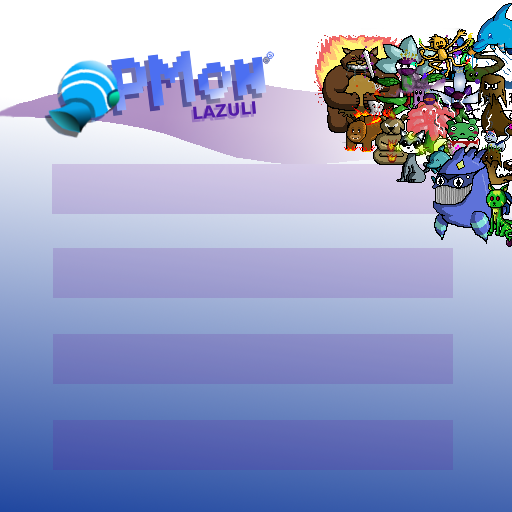
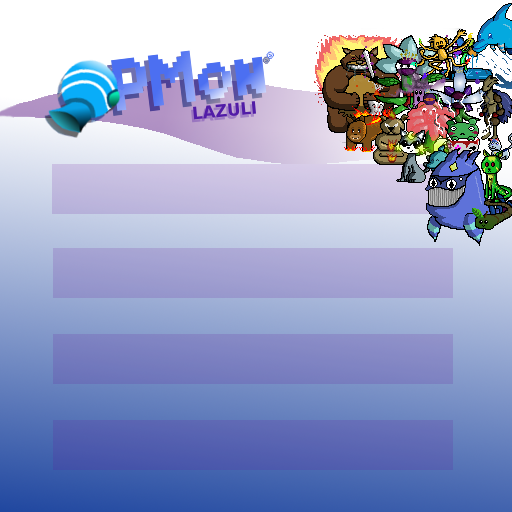
Add Boxali sprite, stats and update titlescreen

Changed region(s): [[0.8125, 0.0938, 1.0, 0.5]]

diff --git a/src/opmon/start/Initializer.cpp b/src/opmon/start/Initializer.cpp
@@ -103,9 +103,9 @@ _______________________________________________
       /*Data::OpMons::listOp.emplace(53, Species(70, 60, 65, 65, 115, 65, "Persian", Type::NORMAL, Type::NOTHING, 0, -1, new E_Nope(), Model::Data::OpMons::evs[53], 1, 32, "Un Pokémon très snob. La taille du joyau qui orne son front alimente bien des débats parmi ses fans.", 148, 1000000, 90, 53));
 	Data::OpMons::listOp.emplace(54, Species(52, 48, 65, 50, 55, 50, "Psykokwak", Type::EAU, Type::NOTHING, 0, 33, new E_Level(55, 33), Model::Data::OpMons::evs[54], 0., 19.6, "Il ne se souvient pas qu'il a des pouvoirs psy. C'est pour cela qu'il a l'air si confus.", 80, 1000000, 190, 54));
 	Data::OpMons::listOp.emplace(55, Species(82, 78, 95, 80, 85, 80, "Akwakwak", Type::EAU, Type::NOTHING, 0, -1, new E_Nope(), Model::Data::OpMons::evs[55], 1.7, 76.6, "Il apparaà®t dans les étendues d'eau au crépuscule. Si son front brille, il se sert de sa télékinésie.", 174, 1000000, 75, 55));
-	Data::OpMons::listOp.emplace(56, Species(80, 35, 35, 45, 70, 40, "Férosinge", Type::COMBAT, Type::NOTHING, 0, 28, new E_Level(57, 28),Model::Data::OpMons::evs[56], 0.5, 2, "Il ne peut dissocier ses amis de ses ennemis et a tendance à  enrager lorsqu'on l'approche.", 74, 1000000, 190, 56));
-	Data::OpMons::listOp.emplace(57, Species(105, 60, 60, 70, 95, 65, "Colossinge", Type::COMBAT, Type::NOTHING, 0, -1, new E_Nope(), Model::Data::OpMons::evs[57], 1, 32, "Sa fureur prend fin quand il n'a plus personne à  frapper. Il est difficile d'en Ãªtre témoin.", 149, 1000000, 75, 57));
-	Data::OpMons::listOp.emplace(58, Species(70, 45, 70, 50, 60, 55, "Caninos", Type::FEU, Type::NOTHING, 0, -1, new E_Item(59, Item::getItem("Pierre Feu")),Model::Data::OpMons::evs[58], 0.7, 19, "Il est courageux et fier. Il se dresse vaillamment devant ses ennemis mÃªme s'ils sont plus _puissants.", 91, 1250000, 190, 58));
+	*/Data::OpMons::listOp.emplace(56, Species(80, 35, 35, 45, 70, 40, "Poigno", Type::COMBAT, Type::NOTHING, 0, 28, new E_Level(57, 28),Model::Data::OpMons::evs[56], 0.5, 2, "Il ne peut dissocier ses amis de ses ennemis et a tendance à  enrager lorsqu'on l'approche.", 74, 1000000, 190, 56));
+	Data::OpMons::listOp.emplace(57, Species(85, 55, 92, 38, 66, 68, "Boxali", Type::COMBAT, Type::NOTHING, 0, -1, new E_Nope(), Model::Data::OpMons::evs[57], 1.89, 72, "Boxali peut utiliser sa cape bleue pour planer quelques secondes au dessus du sol et pouvoir faire des figures et des coups aériens.", 149, 1000000, 75, 57));
+	/*Data::OpMons::listOp.emplace(58, Species(70, 45, 70, 50, 60, 55, "Caninos", Type::FEU, Type::NOTHING, 0, -1, new E_Item(59, Item::getItem("Pierre Feu")),Model::Data::OpMons::evs[58], 0.7, 19, "Il est courageux et fier. Il se dresse vaillamment devant ses ennemis mÃªme s'ils sont plus _puissants.", 91, 1250000, 190, 58));
 	Data::OpMons::listOp.emplace(59, Species(110, 80, 100, 80 , 95, 90, "Arcanin", Type::FEU, Type::NOTHING, 0, -1, new E_Nope(),Model::Data::OpMons::evs[59], 1.9, 155, "Son aboiement est tout simplement majestueux. On ne peut que ramper à  ses pieds après l'avoir entendu.", 213, 1250000, 75, 59));
 	Data::OpMons::listOp.emplace(60, Species(50, 40, 40, 40, 90, 40, "Ptitard", Type::EAU, Type::NOTHING, 0, 25, new E_Level(61, 25), Model::Data::OpMons::evs[60], 0.6, 12.4, "Sa peau est si mince qu'on voit ses organes internes. Il tient à  peine sur ses nouveaux pieds.", 77, 1059860, 255, 60));
 	Data::OpMons::listOp.emplace(61, Species(65, 65, 50, 50, 90, 65, "TÃªtarte", Type::EAU, Type::NOTHING, 0, -1, new E_Item(62, Item::getItem("Pierre Eau")), Model::Data::OpMons::evs[61], 1, 20, " Ce Pokémon amphibie transpire continuellement quand il est hors de l'eau afin d'hydrater son corps.", 131, 1059860, 120, 61));
